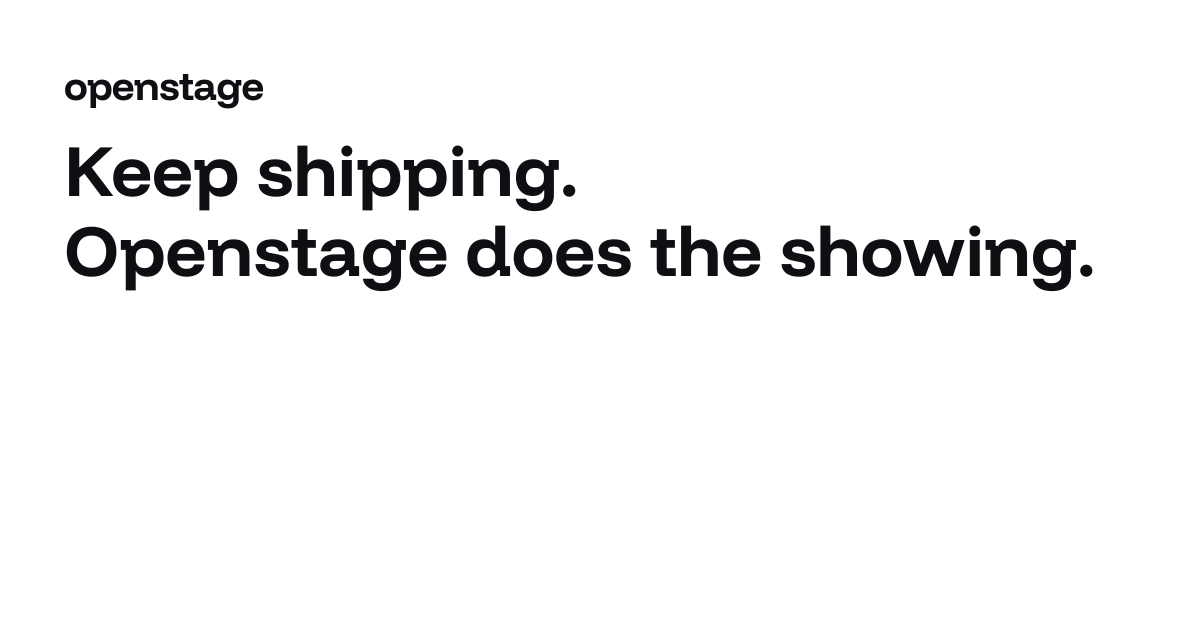
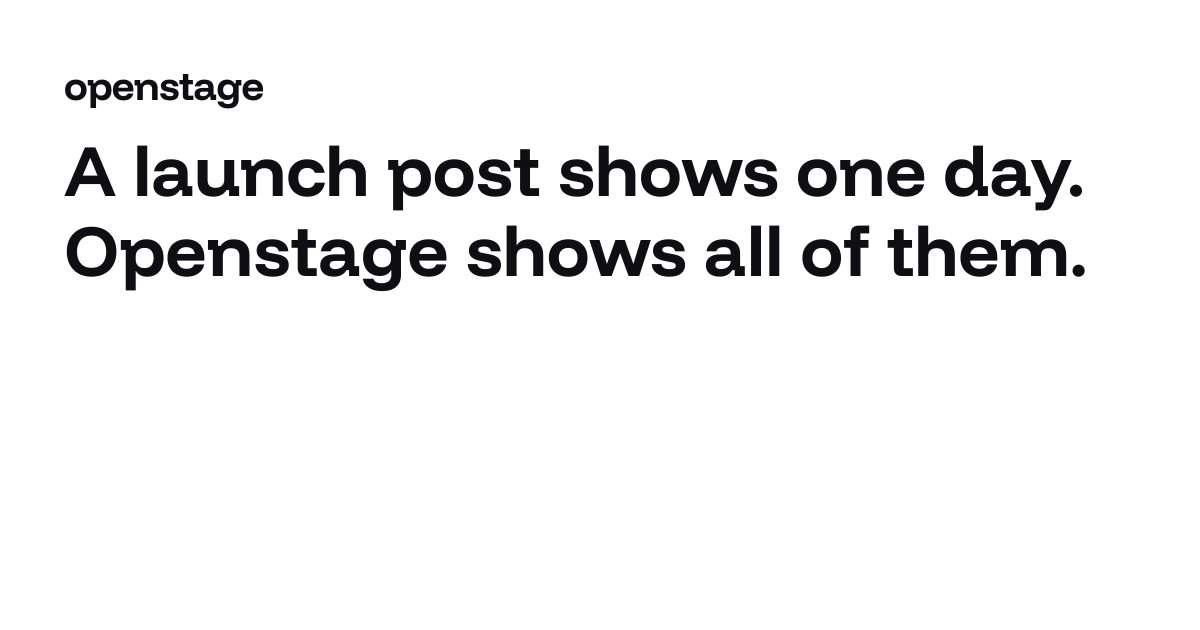
Landing tells a project's life and its numbers

Changed region(s): [[0.0308, 0.2111, 0.8942, 0.3317], [0.37, 0.3619, 0.925, 0.4825]]

diff --git a/spec/requests/home_spec.rb b/spec/requests/home_spec.rb
@@ -10,8 +10,8 @@ RSpec.describe "Home", type: :request do
     it "leads with the friction, not a feature list" do
       get "/"
 
-      expect(response.body).to include("Keep shipping.")
-      expect(response.body).to include("Openstage does the showing.")
+      expect(response.body).to include("A launch post shows one day.")
+      expect(response.body).to include("Openstage shows all of them.")
     end
 
     # Signing in claims a stage the visitor has already seen, so the landing
@@ -92,11 +92,12 @@ RSpec.describe "Home", type: :request do
 
     # The whole feed left the landing on 2026-09-29, when it sold a network of
     # a handful of people. One entry at a time shows the product in use.
-    it "shows other builders' latest work one entry at a time, three at most from any builder" do
+    it "shows other builders' latest work one entry at a time, three at most from any builder and one from any project" do
       owner = create(:user, username: "tuxnotfound", github_username: "tuxnotfound")
       create(:entry, user: owner, title: "The owner's own commit", occurred_at: 1.minute.ago)
       alice = create(:user, username: "alice")
-      4.times { |i| create(:entry, user: alice, title: "Alice step #{i}", repo_name: "alice/app", occurred_at: (i + 1).hours.ago) }
+      4.times { |i| create(:entry, user: alice, title: "Alice step #{i}", repo_name: "alice/app#{i}", occurred_at: (i + 1).hours.ago) }
+      create(:entry, user: alice, title: "Alice again", repo_name: "alice/app0", occurred_at: 6.hours.ago)
       create(:entry, user: alice, title: "Merge pull request #3 from alice/x", occurred_at: 10.minutes.ago)
       bob = create(:user, username: "bob")
       create(:entry, user: bob, entry_type: "milestone", source: "manual", title: "Bob's launch", occurred_at: 5.hours.ago)
@@ -106,9 +107,9 @@ RSpec.describe "Home", type: :request do
       lately = Nokogiri::HTML(response.body).at_css("section[aria-labelledby='lately']")
       items = lately.css("[data-rotate-target='item']")
       expect(items.map { |item| item.at_css(".font-semibold").text }).to eq([ "Alice step 0", "Alice step 1", "Alice step 2", "Bob's launch" ])
-      expect(items.map { |item| item["href"] }).to eq(%w[/alice/app /alice/app /alice/app /bob])
+      expect(items.map { |item| item["href"] }).to eq(%w[/alice/app0 /alice/app1 /alice/app2 /bob])
       expect(items.map { |item| item["inert"].present? }).to eq([ false, true, true, true ])
-      expect(lately.text).not_to include("owner's own", "Merge pull request")
+      expect(lately.text).not_to include("owner's own", "Merge pull request", "Alice again")
     end
 
     it "leaves out of the strip the commits of a project whose builder hides them, keeping its milestones" do

diff --git a/spec/services/feed/lately_service_spec.rb b/spec/services/feed/lately_service_spec.rb
@@ -3,14 +3,28 @@ require "rails_helper"
 RSpec.describe Feed::LatelyService do
   before { travel_to Time.utc(2026, 11, 24, 18) }
 
-  it "keeps three from a builder whose script commits all day, and shows the others" do
+  it "keeps one line from a project whose script commits all day, and shows the others" do
     busy = create(:user, username: "busy")
-    70.times { |i| create(:entry, user: busy, title: "live numbers sync #{i}", occurred_at: Time.utc(2026, 11, 24, 6) + (i * 5).minutes) }
+    70.times do |i|
+      create(:entry, user: busy, repo_name: "busy/site", title: "live numbers sync #{i}", occurred_at: Time.utc(2026, 11, 24, 6) + (i * 5).minutes)
+    end
     bob = create(:user, username: "bob")
     create(:entry, user: bob, entry_type: "milestone", source: "manual", title: "Bob's launch", occurred_at: Time.utc(2026, 11, 23, 9))
 
     lately = described_class.new.tap(&:call!)
 
-    expect(lately.entries.map(&:title)).to eq([ "live numbers sync 69", "live numbers sync 68", "live numbers sync 67", "Bob's launch" ])
+    expect(lately.entries.map(&:title)).to eq([ "live numbers sync 69", "Bob's launch" ])
+  end
+
+  it "keeps three from a builder at most, each from another project" do
+    busy = create(:user, username: "busy")
+    %w[a b c d].each_with_index do |repo, i|
+      create(:entry, user: busy, repo_name: "busy/#{repo}", title: "Work on #{repo}", occurred_at: Time.utc(2026, 11, 24, 12) - i.hours)
+    end
+    create(:entry, user: busy, repo_name: "busy/a", title: "Earlier work on a", occurred_at: Time.utc(2026, 11, 24, 7))
+
+    lately = described_class.new.tap(&:call!)
+
+    expect(lately.entries.map(&:title)).to eq([ "Work on a", "Work on b", "Work on c" ])
   end
 end

diff --git a/spec/requests/previews_spec.rb b/spec/requests/previews_spec.rb
@@ -44,7 +44,7 @@ RSpec.describe "Previews", type: :request do
       field = Nokogiri::HTML(response.body).at_css("input#preview-login")
       expect([ field["value"], field["aria-invalid"], field.key?("autofocus") ]).to eq([ "your_username", "true", true ])
       expect(Nokogiri::HTML(response.body).at_css("#preview-login-error").text).to eq("No GitHub user named @your_username.")
-      expect(response.body).to include("Keep shipping.")
+      expect(response.body).to include("A launch post shows one day.")
     end
 
     it "goes home with nothing typed" do
@@ -152,7 +152,7 @@ RSpec.describe "Previews", type: :request do
       expect(page.at_css("input#preview-login")["value"]).to eq("nobdy")
       expect(page.at_css("#preview-login-error").text).to eq("No GitHub user named @nobdy.")
       expect(page.at_css("input#preview-login-end")["value"]).to eq("")
-      expect(response.body).to include("Keep shipping.", "How it works")
+      expect(response.body).to include("A launch post shows one day.", "How it works")
     end
 
     it "offers the sign-in when GitHub fails, and reports it" do

diff --git a/spec/requests/home_layout_spec.rb b/spec/requests/home_layout_spec.rb
@@ -11,7 +11,7 @@ RSpec.describe "Home layout", type: :request do
   it "keeps the four agreed sections, in order" do
     get "/"
 
-    order = [ "Keep shipping.", "How it works", "Frequently asked questions", "Your commits already tell the story." ]
+    order = [ "A launch post shows one day.", "How it works", "Frequently asked questions", "rather ship than post about it." ]
     positions = order.map { |text| response.body.index(text) }
 
     expect(positions).to all(be_present)
@@ -49,8 +49,8 @@ RSpec.describe "Home layout", type: :request do
   it "sells projects: a line each, and what each one is" do
     get "/"
 
-    expect(response.body).to include("Every project gets its line")
-    expect(response.body).to include("What each project is")
+    expect(response.body).to include("Every project gets a page")
+    expect(response.body).to include("Its numbers, on one chart")
   end
 
   # The recap picker, the week card and Make a card are gone.

diff --git a/app/services/feed/lately_service.rb b/app/services/feed/lately_service.rb
@@ -1,7 +1,8 @@
 module Feed
   # A few of the latest feed entries for the home page, newest first, at most
-  # PER_BUILDER from any one builder, read from the feed's first cards, so one
-  # busy builder never fills them all.
+  # PER_BUILDER from any one builder and one from any project of theirs, read
+  # from the feed's first cards, so neither one busy builder nor one busy
+  # project fills them all.
   class LatelyService < ApplicationService
     COUNT = 12
     PER_BUILDER = 3
@@ -16,7 +17,7 @@ module Feed
       return unless absorb_errors(list)
 
       @entries = list.cards.group_by { |card| card.user.id }.values
-                     .flat_map { |cards| cards.flat_map(&:entries).first(PER_BUILDER) }
+                     .flat_map { |cards| cards.flat_map(&:entries).uniq(&:repo_name).first(PER_BUILDER) }
                      .sort_by(&:occurred_at).reverse.first(COUNT)
     end
   end

diff --git a/app/helpers/seo_helper.rb b/app/helpers/seo_helper.rb
@@ -1,8 +1,8 @@
 module SeoHelper
   SITE_NAME = "Openstage".freeze
   DEFAULT_TITLE = "Openstage: what you're building, project by project".freeze
-  DEFAULT_DESCRIPTION = "Openstage keeps a public page of what you're building, project by project, " \
-    "current from your GitHub commits. Free for indie builders.".freeze
+  DEFAULT_DESCRIPTION = "Openstage keeps a page for each project you build: what you built and when, who visits its website, " \
+    "and what it earns. Free for indie builders.".freeze
 
   # Title shown in <title> and og:title. Pages set it with `content_for :title`.
   # Dynamic pages (e.g. profiles) should use the block form so user data is escaped.

diff --git a/app/helpers/home_helper.rb b/app/helpers/home_helper.rb
@@ -1,5 +1,5 @@
 module HomeHelper
   # The landing's headline, a line each. The card a shared link to the site
   # shows reads it from here too, so a new headline changes both.
-  TAGLINE = [ "Keep shipping.", "Openstage does the showing." ].freeze
+  TAGLINE = [ "A launch post shows one day.", "Openstage shows all of them." ].freeze
 end
